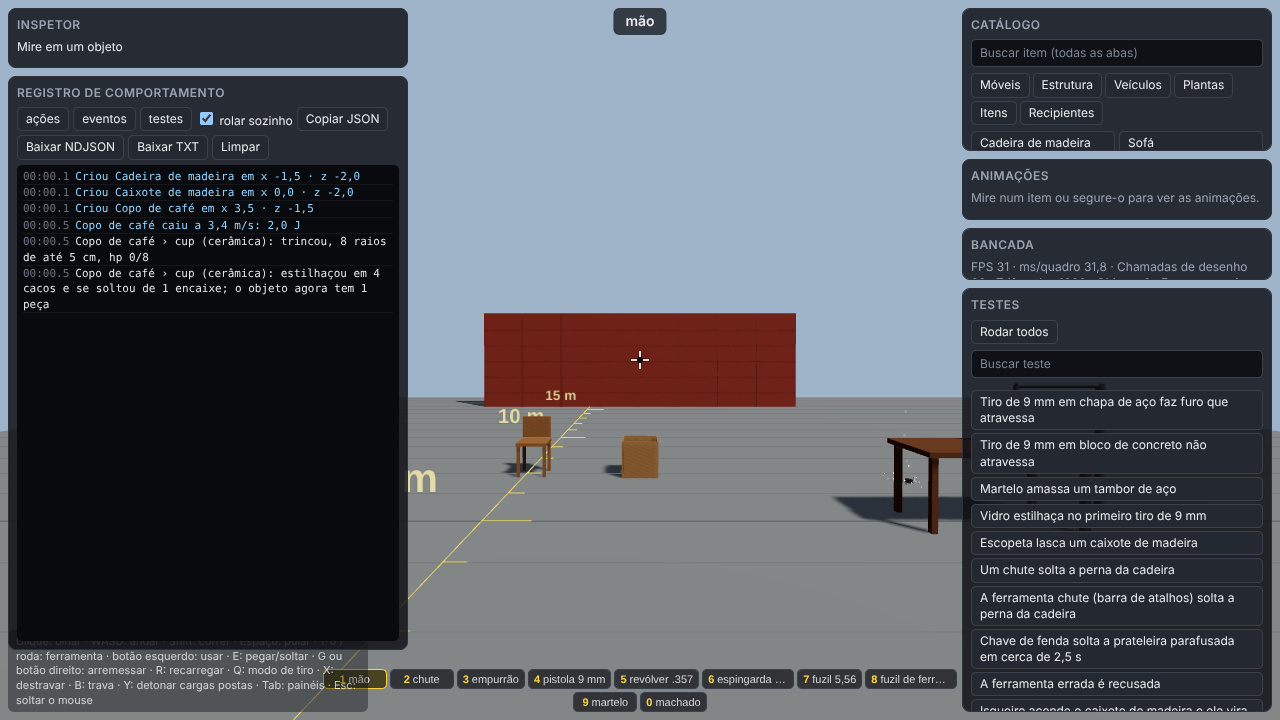
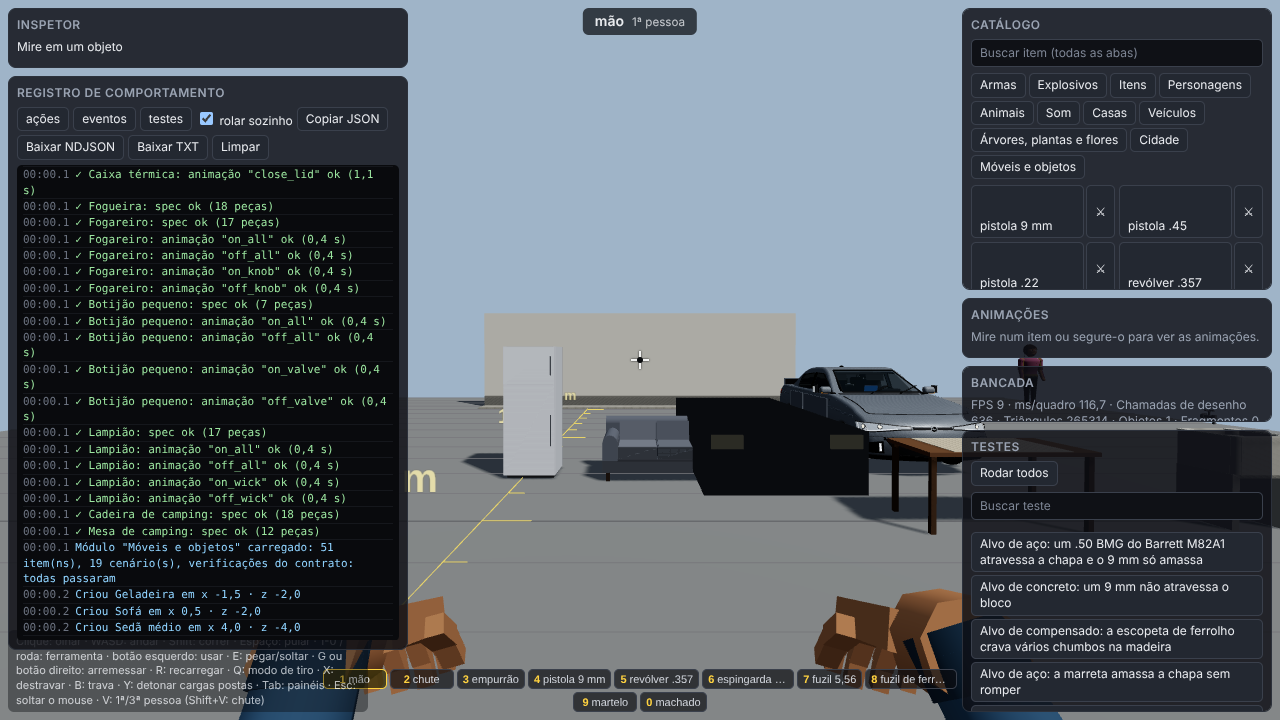
feat(floorplan): wallPiece, a wall built and drawn as the walls of the houses
The owner's rule (2026-10-29): every wall has the look and the load path of
the houses' walls.

- game-floorplan-three: wallPlan / wallPiece. A one-storey plan whose only
  wall is exterior on both sides, with the houses' masonry construction; its
  structure is buildStructure of game-floorplan-structure (the wall on the
  strip footing, the concrete bond beam on it). The house renderer draws it
  (plaster, paint, baseboard, sidewalk) and gives the spec a house gives
  (the wall's layers, units and breach, the beam's rebar); the meshes carry
  userData.destructionPart.
- game-floorplan-structure: buildStructure takes roof: false.
- examples/test-room: the target wall is a wallPiece instead of 48 loose
  brick-coloured blocks bonded with mortar.

Claude-Session: https://claude.ai/code/session_018vCkiEe6FdDXh8tPaokZ67

diff --git a/packages/game-floorplan-three/src/wall.ts b/packages/game-floorplan-three/src/wall.ts
@@ -1,0 +1,82 @@
+import { buildStructure, masonryConstruction } from '@adatechnology/game-floorplan-structure'
+
+import { create } from './create.js'
+import type { House, HouseRendererOptions } from './types.js'
+
+/** A free-standing wall built and drawn as the walls of the houses. */
+export interface WallPieceOptions {
+  /** Length and height in metres. */
+  w: number
+  h: number
+  /** Default 0.15 m, the houses' wall. */
+  thickness?: number
+  /** Facade finish of the houses: `plaster` (default), `roughcast` or `exposed_block`. */
+  finish?: string
+  /** Paint colour of the plaster (default the light plaster of the houses' palette). */
+  color?: number
+  /** Options of the house renderer (`create`) that draws it. */
+  house?: Partial<HouseRendererOptions>
+}
+
+export interface WallPiece {
+  /** The plan of the wall: one storey, one exterior wall, no rooms and no roof; its `structure` is the houses' load path. */
+  readonly plan: any
+  /** The destructible spec, as a house gives it (`house.structure.spec()`): the wall with its layers, units and breach on the ground, and the bond beam on it. */
+  readonly spec: any
+  /** Draws the wall with the house renderer: meshes carry `userData.destructionPart` of their part, in the space of the spec. */
+  build(THREE: any): any
+}
+
+const PLASTER = 0xe8e2d4
+const WALL_ID = 'wall_0_0'
+
+/**
+ * The plan of a free-standing wall along x, centred on the origin: a one-storey plan whose only wall is exterior on both sides, with the masonry construction of
+ * the houses (brick, concrete bond beam, strip footing) and the structure `buildStructure` gives the houses, without a roof.
+ */
+export function wallPlan(options: WallPieceOptions): any {
+  const { w, h, thickness = 0.15, finish = 'plaster', color = PLASTER } = options
+  const facade = { finish, roof: 'none', floors: 1 }
+  const wall = { id: WALL_ID, floor: 0, axis: 'u', u0: -w / 2, v0: 0, u1: w / 2, v1: 0, thickness, sides: ['outside', 'outside'], exterior: true, type: 'wall', h }
+  const plan: any = {
+    template: 'wall', name: 'wall', style: 'mid', state: 'normal', w, d: thickness,
+    floors: [{ index: 0, y0: 0, ceiling: h }], rooms: [], walls: [wall], doors: [], windows: [], items: [], stateItems: [], openPairs: [], partyWalls: [], missing: [],
+    facade, colors: { facade: color, wall: color }, lot: null, building: null, waterTank: null, outbuildings: [],
+  }
+  plan.construction = masonryConstruction({ ...plan, facade: { ...facade, roof: 'colonial' } })
+  plan.structure = buildStructure(plan, { wallDetail: 'coarse', construction: plan.construction, roof: false })
+  return plan
+}
+
+function draw(THREE: any, plan: any, options: Partial<HouseRendererOptions>): House {
+  return create(THREE, { ...options, fleet: null }).build(plan, { quality: 'game', terrain: false, noPerimeter: true, pieces: 'meshes' })
+}
+
+/** Labels the meshes of each structural piece with its part id, so a destruction renderer binds them by `userData.destructionPart`. */
+function label(house: House): any {
+  for (const [id, items] of Object.entries<any[]>(house.destruction.ranges())) {
+    for (const item of items) {
+      const object = item.isObject3D ? item : item.mesh
+      object.userData.destructionPart = id
+    }
+  }
+  return house.group
+}
+
+/**
+ * A free-standing wall (a target wall, a garden wall) built and drawn exactly as the walls of the houses: the structure of `game-floorplan-structure` (the wall on
+ * the strip footing, the bond beam on it, the assembly's layers, units and breach) and the house renderer's plaster, paint, baseboard and sidewalk.
+ */
+export function wallPiece(THREE: any, options: WallPieceOptions): WallPiece {
+  const plan = wallPlan(options)
+  const houseOptions = options.house ?? {}
+  // no world: the wall is drawn once to describe its structure, as the houses' specimens are
+  const probe = draw(THREE, plan, { ...houseOptions, destruction: undefined, destructionRenderer: undefined })
+  const spec = probe.structure.spec({ wallDetail: 'coarse' })
+  probe.dispose()
+  return {
+    plan,
+    spec,
+    build: (T: any) => label(draw(T, plan, houseOptions)),
+  }
+}

diff --git a/examples/test-room/src/main.js b/examples/test-room/src/main.js
@@ -12,8 +12,7 @@
 //   ?bench.<moduleId>=size=2;smoke=0   bench state of that module (the page keeps it up to date as the controls change)
 import * as THREE from 'three'
 import { createTestRoom } from '@adatechnology/game-test-room'
-import { buildWallSpecimen } from '@adatechnology/game-floorplan-structure'
-import { buildSpecimenMeshes, furnitureSpec } from '@adatechnology/game-floorplan-three'
+import { furnitureSpec, wallPiece } from '@adatechnology/game-floorplan-three'
 import { projectileModel } from '@adatechnology/game-weapons-three'
 import { createPlayerAvatar, toRoomAvatar } from '@adatechnology/game-characters-three'
 
@@ -31,31 +30,15 @@ const arena = Number(params.get('arena'))
 const quality = ['low', 'medium', 'high'].includes(params.get('quality')) ? params.get('quality') : 'medium'
 const items = params.get('items')
 
-// The room's scenery is the kit's own pieces: the wall of the structure package (brick, plastered), and the team's table and bookcase.
-// `buildWallSpecimen` gives one part for a whole wall (a 10 m wall in `panels` is a single slab) and 1761 bricks in `units`, too many for the room (the page takes minutes to
-// load). So the 10 x 3 m wall is 8 x 6 cells of the same specimen, 1.25 x 0.5 m each (48 parts, like the wall it replaces): each cell is the specimen's own wall part
-// (plastered brick with its units and breach), the bottom row stands on the ground and the cells are bonded with mortar.
-function brickWall(cols, rows, cw, ch) {
-  const cell = buildWallSpecimen({ assembly: 'brick_wall_plastered', w: cw, h: ch }).parts.find((p) => p.id === 'wall_specimen')
-  const parts = []
-  const joints = []
-  const id = (c, r) => `brick_${r}_${c}`
-  for (let r = 0; r < rows; r++) {
-    for (let c = 0; c < cols; c++) {
-      parts.push({ ...structuredClone(cell), id: id(c, r), position: [(c - (cols - 1) / 2) * cw, ch / 2 + r * ch, 0], ...(r === 0 ? { anchored: true } : {}) })
-      if (c > 0) joints.push({ a: id(c - 1, r), b: id(c, r), kind: 'mortar' })
-      if (r > 0) joints.push({ a: id(c, r - 1), b: id(c, r), kind: 'mortar' })
-    }
-  }
-  return { name: 'brick wall', parts, joints, tags: ['structure'] }
-}
-const wallSpec = brickWall(8, 6, 1.25, 0.5)
+// The room's scenery is the kit's own pieces: the target wall is a wall of the houses (`wallPiece` of game-floorplan-three: the structure the houses have, the wall on
+// the strip footing with the bond beam on it, drawn by the house renderer with its plaster, baseboard and sidewalk), and the team's table and bookcase.
+const wall = wallPiece(THREE, { w: 10, h: 3 })
 const table = furnitureSpec(THREE, 'dining_table', { w: 1.6, d: 0.8, h: 0.78, options: { chairs: false } })
 const shelf = furnitureSpec(THREE, 'bookcase')
 // the water tap is the team's laundry tub with its wall tap, beside the table: the spout is over the basin, high enough for a cup or a bucket under it
 const sink = furnitureSpec(THREE, 'laundry_tub', { options: { materials: { plain: 'ceramic' } } })
 const scenery = {
-  target_wall: { spec: wallSpec, position: [0, 0, -11], build: (T) => buildSpecimenMeshes(T, wallSpec) },
+  target_wall: { spec: wall.spec, position: [0, 0, -11], build: wall.build },
   table: { spec: table.spec, position: [3.5, 0, 0], build: table.build, top: table.top },
   shelf: { spec: shelf.spec, position: [-3.5, 0, 0], build: shelf.build },
   sink: { spec: sink.spec, position: [6, 0, 0], build: sink.build, top: sink.top ?? undefined, spout: sink.spouts[0], label: locale === 'en' ? 'Laundry tub' : 'Tanque' },

diff --git a/packages/game-floorplan-three/tests/wall.test.ts b/packages/game-floorplan-three/tests/wall.test.ts
@@ -1,0 +1,43 @@
+import { checkSpec } from '@adatechnology/game-contracts'
+import { createDestruction } from '@adatechnology/game-destruction'
+import { describe, expect, it } from 'vitest'
+
+import { wallPiece, wallPlan } from '../src'
+import { THREE } from './helpers/houses'
+import { fakeDocument } from './helpers/fake-document'
+
+const make = () => wallPiece(THREE, { w: 10, h: 3, house: { document: fakeDocument } })
+
+describe('wallPiece', () => {
+  it('stands as a house wall: the wall on the strip footing and the bond beam on it, no roof', () => {
+    const plan = wallPlan({ w: 10, h: 3 })
+    expect(plan.construction.system).toBe('masonry')
+    expect(plan.construction.foundation.type).toBe('strip_footing')
+    const parts = plan.structure.parts.map((p: any) => `${p.id}:${p.role}:${p.material}`)
+    expect(parts).toEqual(['wall_0_0:wall:brick', 'plate_0_0:beam:concrete'])
+    expect(plan.structure.supports.map((s: any) => `${s.part}>${s.on}:${s.joint}`)).toEqual(['wall_0_0>ground:mortar', 'plate_0_0>wall_0_0:mortar'])
+  })
+
+  it('gives the spec a house gives: the plastered brick wall with its units and breach, the bond beam with rebar', () => {
+    const { spec } = make()
+    const wall = spec.parts.find((p: any) => p.id === 'wall_0_0')
+    expect(wall.layers.some((l: any) => l.material === 'plaster')).toBe(true)
+    expect(wall.units).toBeTruthy()
+    expect(wall.breach).toBeTruthy()
+    expect(spec.parts.find((p: any) => p.id === 'plate_0_0').reinforcement).toBeTruthy()
+    expect(spec.joints.map((j: any) => j.id)).toEqual(expect.arrayContaining(['wall_0_0~ground', 'plate_0_0~wall_0_0']))
+    const report = checkSpec(spec, { materials: createDestruction({ seed: 1 }).materials.keys() })
+    expect(report.problems).toEqual([])
+  })
+
+  it('is drawn by the house renderer, centred on the origin, with the wall meshes labelled by part', () => {
+    const root = make().build(THREE)
+    const labelled: string[] = []
+    root.traverse((o: any) => { if (o.isMesh && o.userData.destructionPart) labelled.push(o.userData.destructionPart) })
+    expect(labelled).toContain('wall_0_0')
+    const box = new THREE.Box3().setFromObject(root)
+    expect(box.min.x).toBeLessThan(-4.9)
+    expect(box.max.x).toBeGreaterThan(4.9)
+    expect(box.max.y).toBeCloseTo(3, 1)
+  })
+})

diff --git a/packages/game-floorplan-three/src/index.ts b/packages/game-floorplan-three/src/index.ts
@@ -14,4 +14,6 @@ export type { AreaContext } from './test-area/scenarios.js'
 export { DEFAULT_SPECIMENS, buildSpecimenMeshes, specimenSpec } from './test-area/specimens.js'
 export type { FloorplanEngineLike, FloorplanTestOptions, SpecimenDef, TemplateGroup } from './test-area/types.js'
 export { furnitureSpec, tapSpec } from './furniture/spec.js'
+export { wallPiece, wallPlan } from './wall.js'
+export type { WallPiece, WallPieceOptions } from './wall.js'
 export type { FurnitureCatalogEntry, FurnitureSpecOptions, FurnitureSpecResult, TapSpecOptions, TapSpecResult } from './furniture/spec.js'

diff --git a/packages/game-floorplan-structure/src/types.ts b/packages/game-floorplan-structure/src/types.ts
@@ -276,6 +276,8 @@ export interface StructureOptions {
   /** Gable roofs as rafters of each side and a ridge beam (a side falls with the wall it rests on) instead of whole trusses. Default: when the detail is not `coarse`. */
   rafterRoof?: boolean
   wallDetail?: WallDetail
+  /** `false`: no roof (a free-standing wall, a garden wall). Default `true`. */
+  roof?: boolean
 }
 
 /** What a construction builder and the tank get to see: the generated plan, its seed and the template. */

diff --git a/packages/game-floorplan-structure/src/structure/index.ts b/packages/game-floorplan-structure/src/structure/index.ts
@@ -44,7 +44,7 @@ export function buildStructure(source: StructureSource, options: StructureOption
   addPorchRoofs(context)
   addExteriorSteps(context)
   addStairs(context)
-  addRoof(context)
+  if (options.roof !== false) addRoof(context)
   if (refined) addDoorLintels(context)
   addWaterTank(context)
   addChimney(context)

diff --git a/packages/game-floorplan-three/README.md b/packages/game-floorplan-three/README.md
@@ -65,6 +65,19 @@ table.top // { part: 'wood_0', y: 0.78 }: what loose things rest on
 
 Materials: `wood` is `wood_hard` (`wood_soft` under 3.5 cm: boards, panels), `metal` is `steel`, `plain` is `plastic` (`paper` on shelves and racks: the books), `fabric`, `glass` and `plant` keep their name; `options.materials` overrides any key. Parts that touch the floor are anchored. Joints come from `inferJoints` (screws between wood...), except that paper rests on what it lies on with a weak `resting` joint, so books fall when their board breaks, and is not joined to its neighbours. `options.chairs: false` drops what the builder draws in a frame of its own (a table's chairs). Planes and leaves have no volume and are left out.
 
+## A wall as the houses build it
+
+`wallPiece(THREE, { w, h, thickness?, finish?, color?, house? })` is a free-standing wall (a target wall, a garden wall) made exactly like the walls of the houses: `wallPlan` gives a one-storey plan whose only wall is exterior on both sides, with the houses' masonry construction, and its structure is `buildStructure` of `game-floorplan-structure` without a roof (the wall on the strip footing, the concrete bond beam on it). The house renderer draws it (plaster and paint, baseboard, sidewalk) and gives the spec a house gives (`house.structure.spec()`: the plastered brick wall with its layers, units and breach, the bond beam with its rebar). `build(THREE)` returns the drawn wall with each mesh labelled by its part (`userData.destructionPart`), centred on the origin along x.
+
+```ts
+import { wallPiece } from '@adatechnology/game-floorplan-three'
+const wall = wallPiece(THREE, { w: 10, h: 3 })
+world.add(wall.spec, { id: 'target_wall', position: [0, 0, -11] })
+scene.add(wall.build(THREE))
+```
+
+Any wall a scene, an area or a game needs is made this way, never drawn on its own: the same look and the same load path as the houses, so a change to the houses shows on every wall.
+
 ## Bound to the destruction
 
 With `destruction` (a world of `game-destruction`) and `destructionRenderer` (`game-destruction-three`), the house registers itself in the world on first need

diff --git a/packages/game-floorplan-structure/README.md b/packages/game-floorplan-structure/README.md
@@ -12,6 +12,8 @@ plan.structure.parts // the parts that carry load, each with role, material, box
 plan.structure.supports // what each part rests on, down to 'ground'
 ```
 
+A free-standing wall: `buildStructure(plan, { roof: false })` leaves the roof out, so a plan with one exterior wall stands as a house wall does (on the strip footing, with the bond beam on it). `wallPiece` of `game-floorplan-three` builds and draws such a wall; every wall of a scene or a game is made that way.
+
 Tall buildings: `buildTower()` builds a frame with continuous columns, a concrete core with stairs and elevator shafts, a glass curtain wall, a flat
 roof with its membrane and the mechanical floor (`addCore`, `addCurtainWall`, `addFlatRoof`, `addMechanicalFloor` add each one to any frame spec).
 Wind: `buildTower({ wind: { speed, terrain }, damper: true })` sizes the tower for the wind and adds a tuned mass damper (`addTunedMassDamper`, `DAMPER_DEFAULTS`)

diff --git a/.changeset/wall-as-the-houses.md b/.changeset/wall-as-the-houses.md
@@ -1,0 +1,6 @@
+---
+'@adatechnology/game-floorplan-three': minor
+'@adatechnology/game-floorplan-structure': minor
+---
+
+`wallPiece` and `wallPlan`: a free-standing wall built and drawn as the walls of the houses (the houses' structure without a roof, drawn by the house renderer). `buildStructure` takes `roof: false`. The test room's target wall is now one of them.
